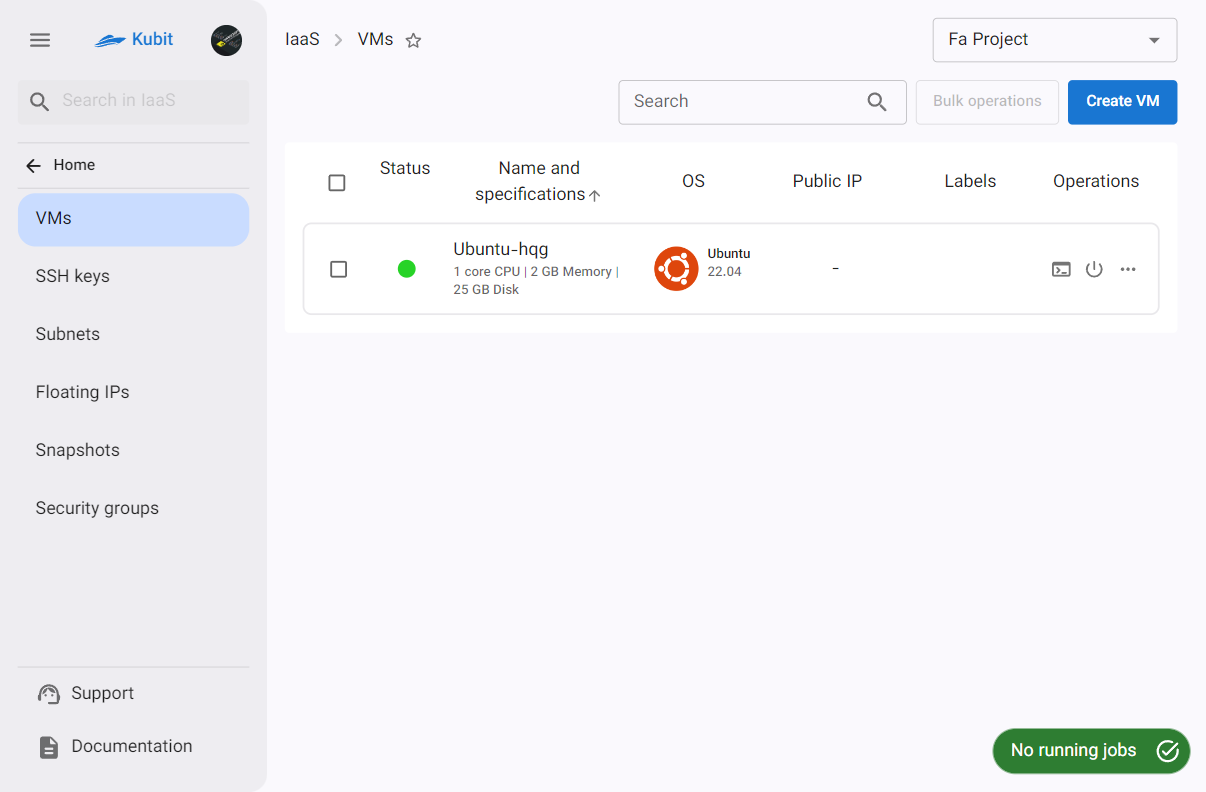
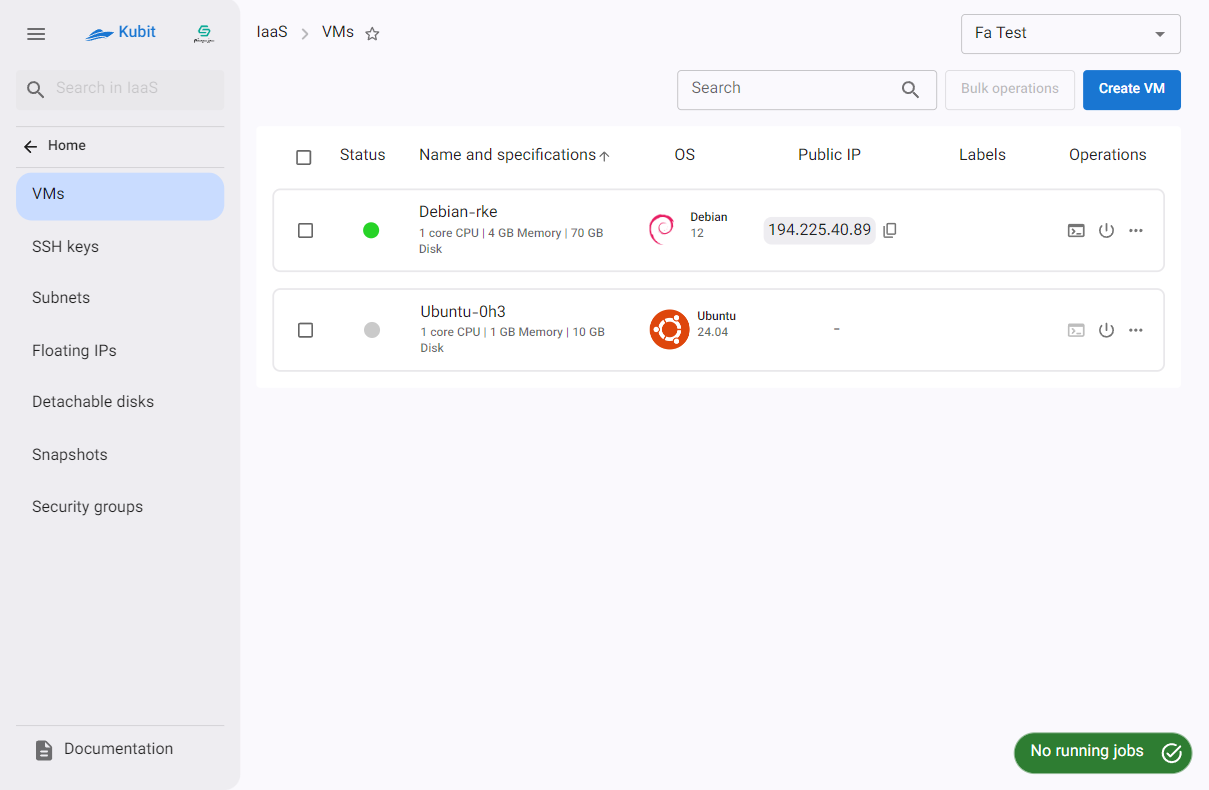
Add vms docs in en lang

diff --git a/docs/en/iaas/vms.md b/docs/en/iaas/vms.md
@@ -1,0 +1,109 @@
+# Virtual Machines
+
+On the Virtual Machines page, you can view a list of virtual machines created in the selected project. This list includes the general specifications of the machines, along with various available operations.
+![VMs: vms list](vms-list.png)
+By clicking on any of the machines, you will be redirected to the machine's overview page. For more information, refer to the [Overview](../vm#overview) document.
+
+## Virtual Machine Operations {#vm-operations}
+
+There are various operations available for virtual machines, which we will explain below:
+
+- Power On/Off the Virtual Machine: Powering off or on a virtual machine is similar to shutting down or turning on a physical computer; the operating system shuts down or starts normally.
+-
+- Power Cut: Cutting the power is equivalent to a sudden shutdown without a proper shutdown process, which may result in data or operating system damage.
+-
+- Reboot the Machine: Rebooting the virtual machine restarts the operating system without completely powering off and on the virtual machine.
+  :::caution[توجه!]
+  Please note that some operations depend on the machine's power state. If the required state is not met, the operation cannot be performed.
+
+Power Off Requirement: Operations such as Delete and Resize require the machine to be powered off.
+Power On Requirement: Operations such as Reboot and Power Cut require the machine to be powered on.
+:::
+
+:::info[Job Creation for Each Operation]
+Every operation performed on a machine generates a corresponding task, which shows the operation's status. An operation is considered successful if its task completes successfully and reaches the Success status. You can view the task statuses by accessing the machine’s task list:![VMs: jobs btn](vm-jobs-btn.png)
+![Vms: jobs list](vm-jobs.png)
+**Example of a job in progress**
+![VMs: power on job](power-on-job.png)
+:::
+
+### Accessing the Console
+
+To open the machine’s console, click on the Console icon to open the console window:
+![VMs: console](vm-console.png)
+
+### Shutdown/Power on the Machine
+
+- To Shutdown/Power on a machine, click on the **Shutdown/Power on** icon.
+- If powering on, the machine will start without any user confirmation; however, if shutdown, a confirmation dialog will open. If you're sure, click **Shutdown** in the dialog.
+- After the job related to the operation is successfully completed, the machine's status will change to either STOPPED or RUNNING.
+  ![VMs: shutdown](vm-shutdown-btn.png)
+  ![VMs: shutdown dialog](vm-shutdown.png)
+
+For other operations, click the three-dot button in the operations column to display a list of actions:
+![VMs: options btn](vm-options.png)
+![VMs: options](vm-options-list.png)
+
+### Restart
+
+- To restart the machine, click the Restart option.
+- If you're sure, click Restart.
+- Once the associated task is successfully completed, the machine’s status will update accordingly.
+  ![VMs: reboot btn](vm-reboot-btn.png)
+  ![VMs: reboot](vm-reboot.png)
+
+### Rename
+
+- To change the machine's name, click Rename.
+- In the opened dialog, enter a valid and unique name and click Rename.
+  ![VMs: vm rename btn](vm-rename-btn.png)
+  ![VMs: vm rename](vm-rename.png)
+
+### Resize
+
+- First, ensure the machine is powered off.
+- To resize the machine, click Resize.
+- In the opened dialog, select the new size for the machine and click **Resize**.
+  ![VMs: resize btn](vm-resize-btn.png)
+  ![VMs: resources](vm-resources-list.png)
+  ![VMs: resize](vm-resize.png)
+
+### Power Off
+
+- First, ensure the machine is powered on.
+- To cut the power, click Power Cut.
+- If you're sure, click Cut Power in the confirmation dialog.
+- After the task is successfully completed, the machine's status will change to powered off.
+  ![VMs: power off btn](vm-power-off-btn.png)
+  ![VMs: power off](vm-power-off.png)
+
+### Delete
+
+- First, ensure the machine is powered off.
+- To delete the machine, click Delete.
+- If you're sure, enter the machine's name as confirmation in the dialog and click Delete.
+- After the task is successfully completed, the machine will be removed from the list.
+  ![VMs: remove btn](vm-remove-btn.png)
+  ![VMs: confirm](vm-remove-confirmation-phrase.png)
+  ![VMs: remove](vm-remove.png)
+
+:::tip[Operations on Multiple Machines]
+All the above operations can also be performed on multiple machines at once. This functionality is explained below.
+:::
+
+## Bulk operations on Machines
+
+To simplify performing operations on multiple machines, all the above operations are available via the Bulk operations option. First, select one or more machines:
+![VMs: select vm](select-vm-icon.png)
+
+After selecting the machine(s), the Bulk operations button will be enabled:
+![VMs: vm gp options btn](vm-gp-options-btn.png)
+
+Clicking Bulk operations will display a list of available operations for the selected machines:
+![VMs: vm gp options](vm-gp-options.png)
+
+:::tip[Available Operations]
+Please note that only operations that can be performed on all selected machines will be displayed. In other words, the available operations depend on the machines having similar statuses. For example, if one machine is powered on and another is powered off, the Power Off and Power On operations will be disabled since they can't be applied to both machines simultaneously.
+:::
+
+By clicking any of the operations, the selected action will be applied to all selected machines, following the same steps described in the [Virtual Machine Operations](#vm-operations) section.
